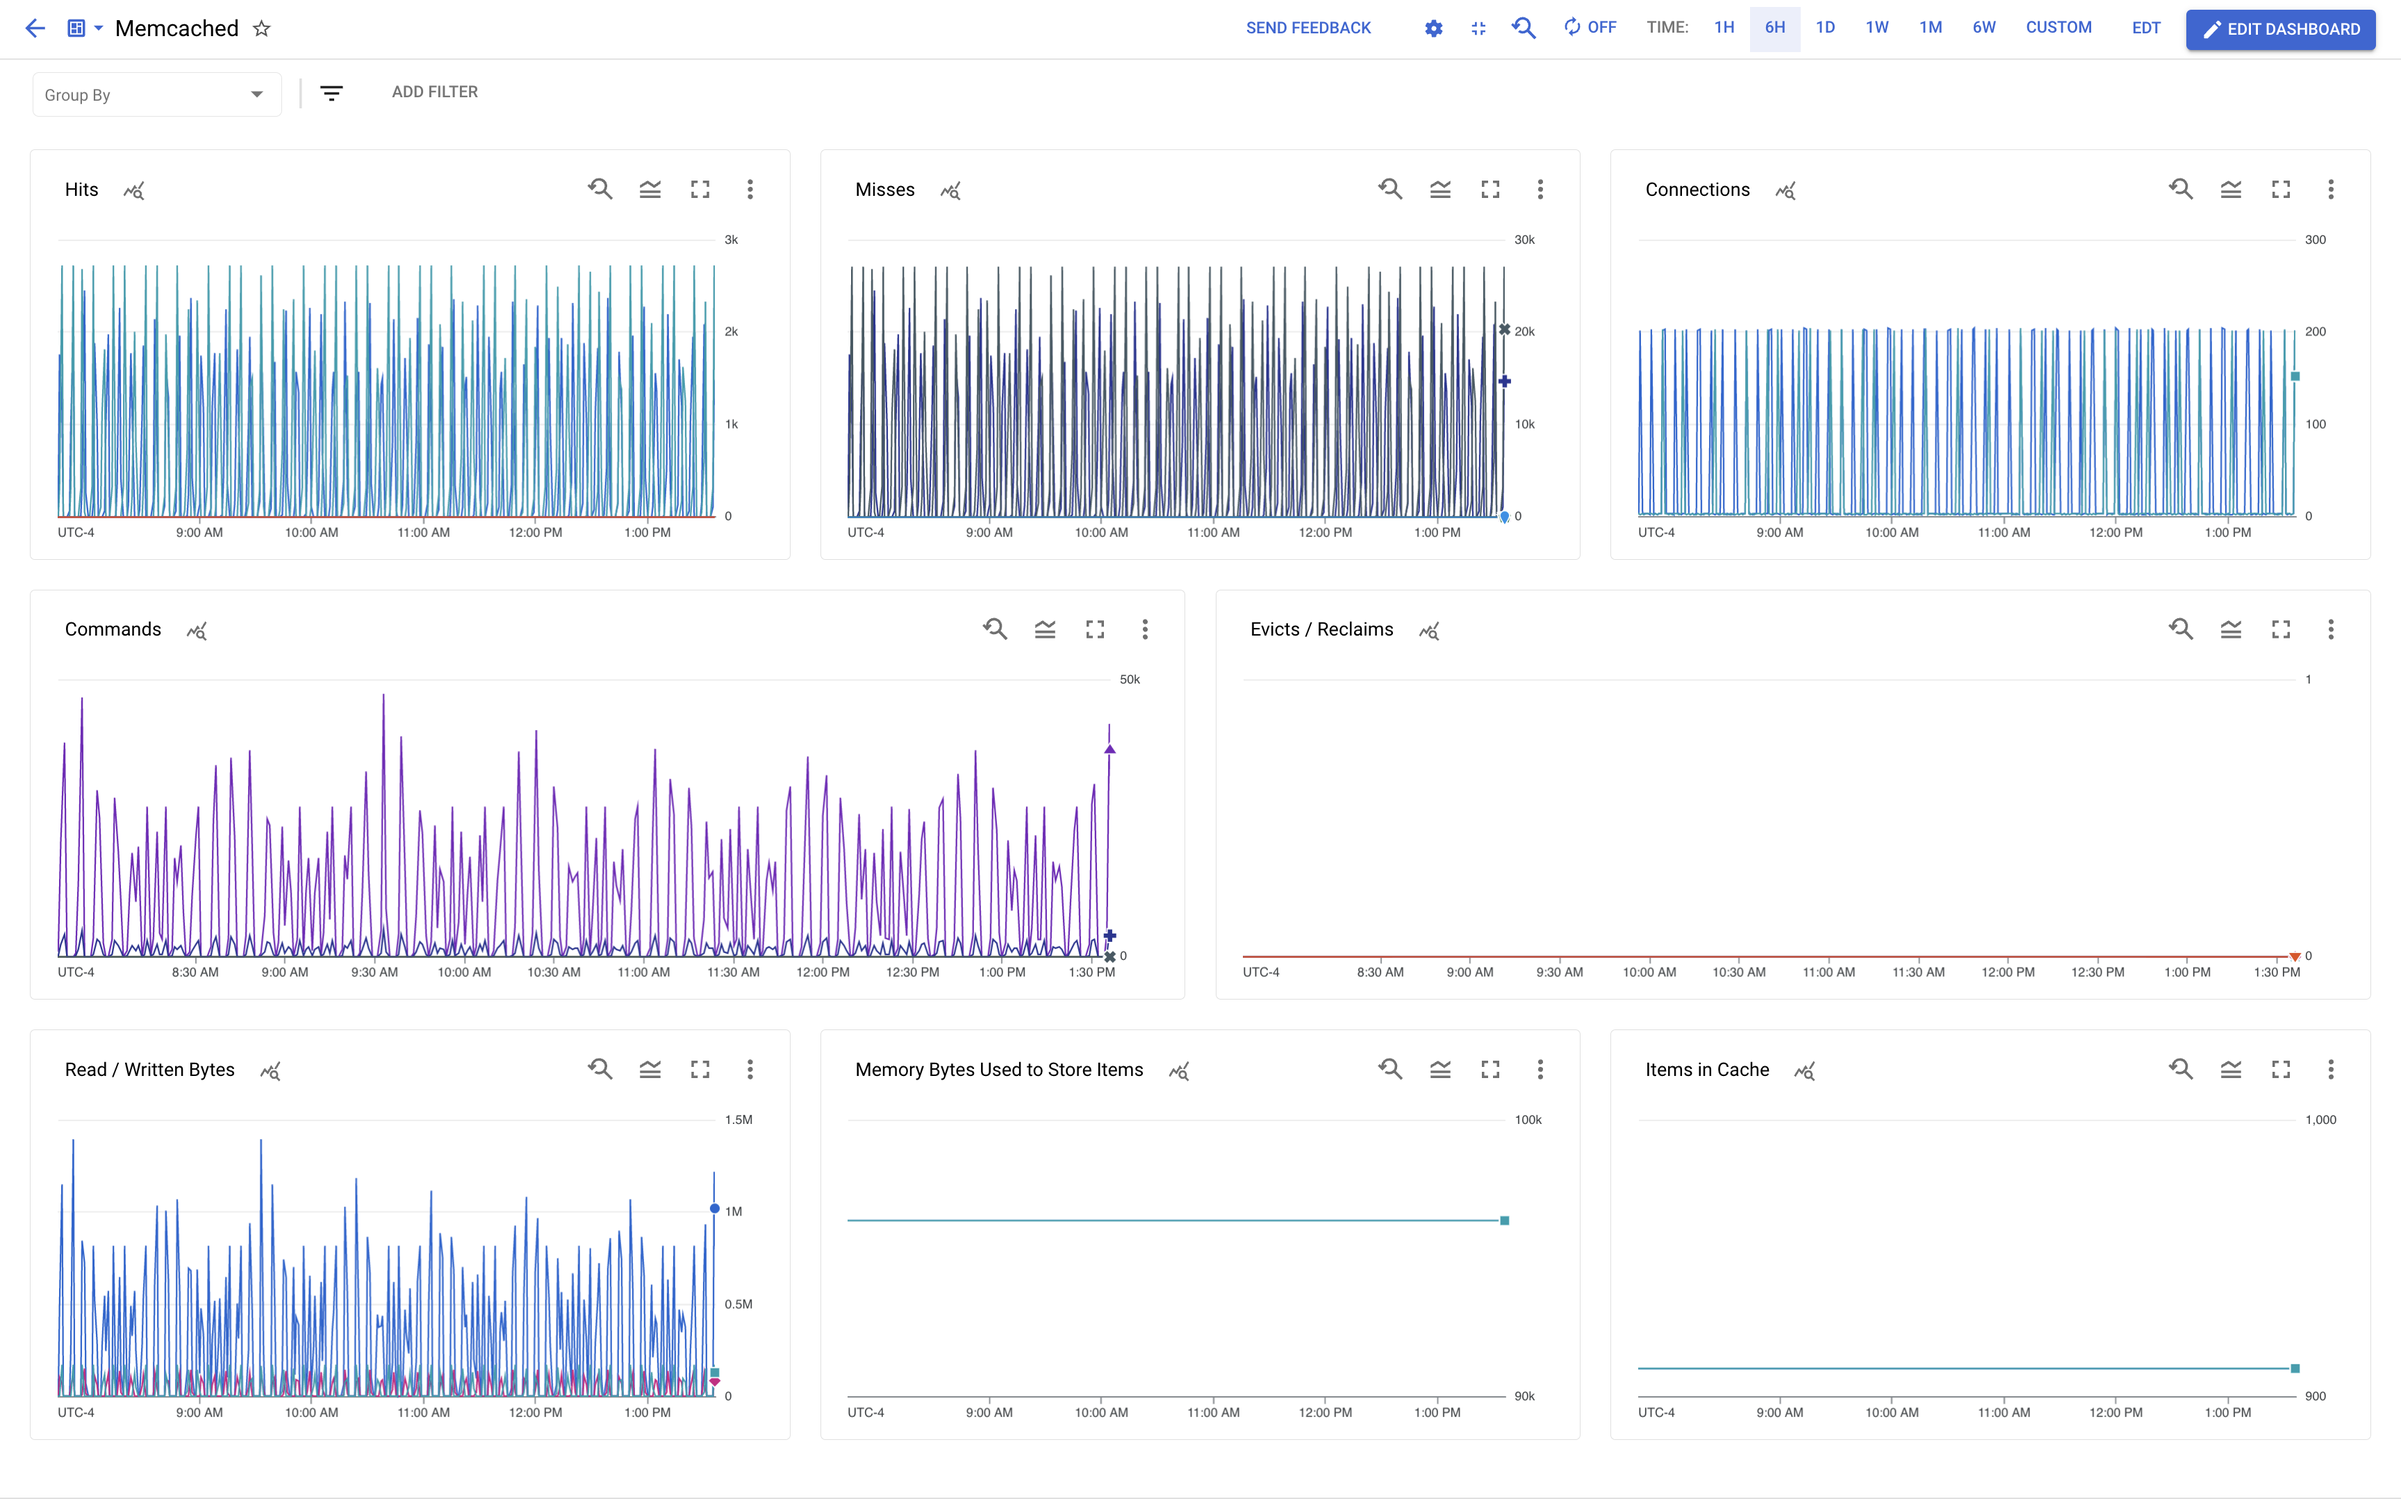
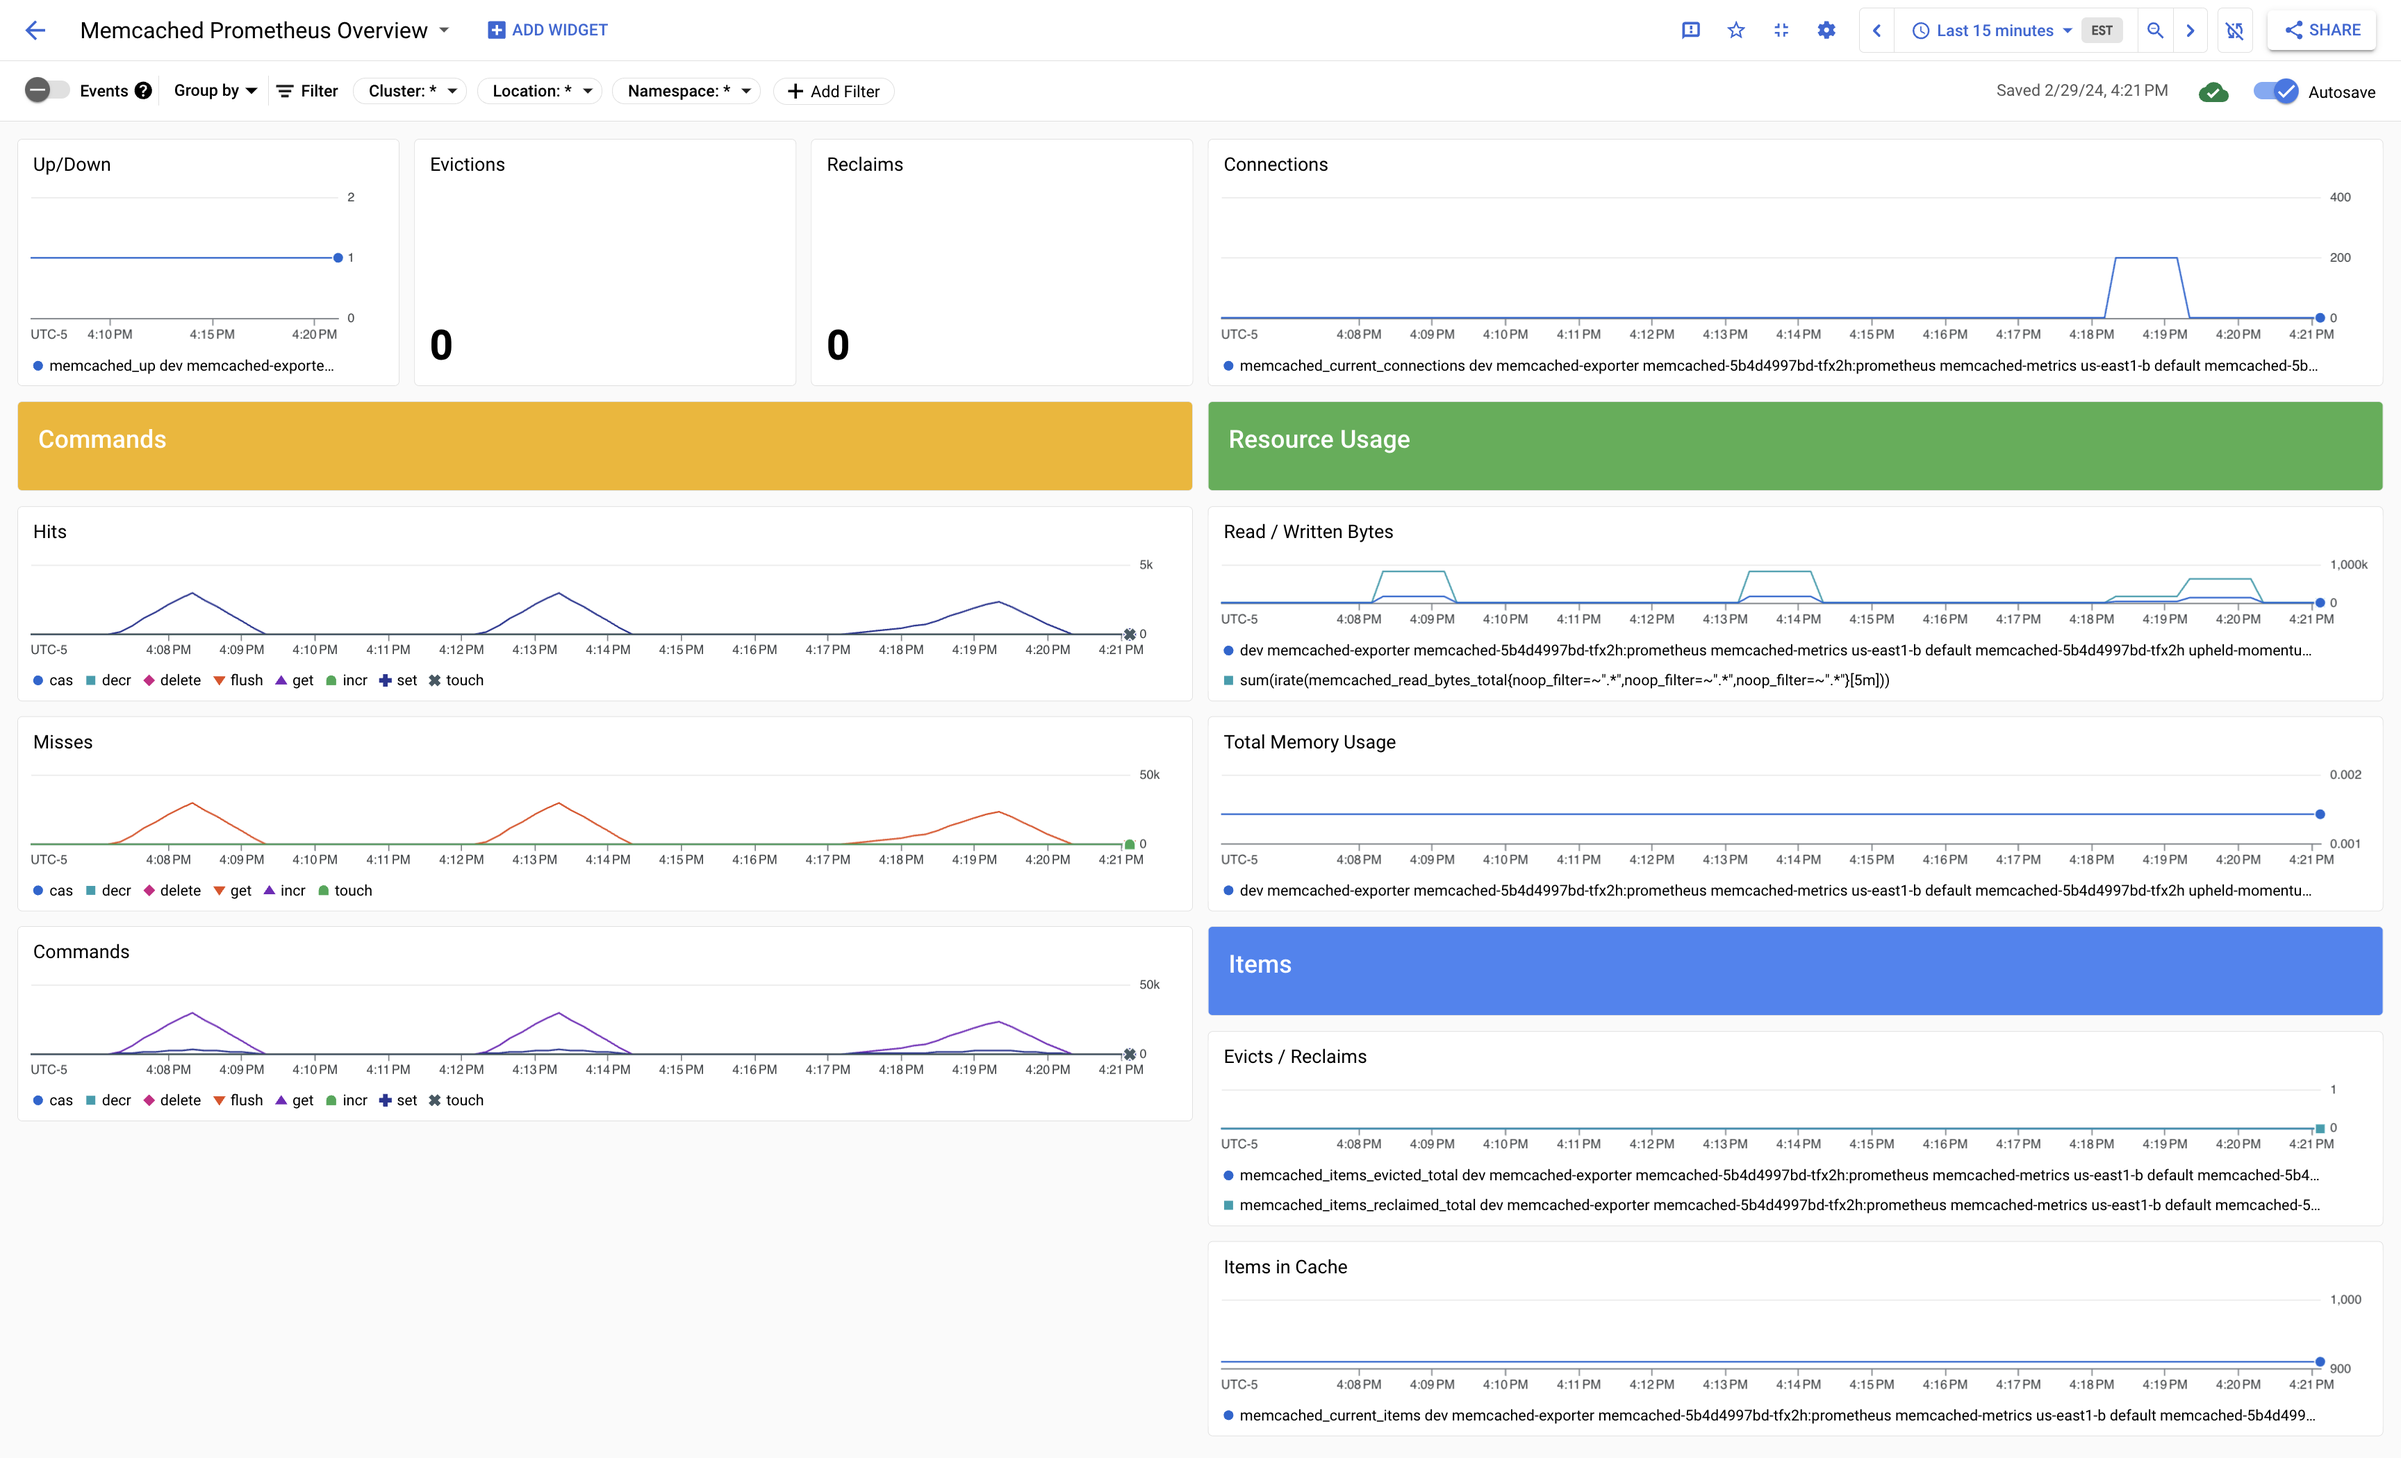
Memcached Prometheus dashboard KPI and layout updates (#723)
* updated readme, metadata, and prometheus metadata to reflect additional metric

* updated dashboard with new layout and kpi metric

* updated screenshot

* removed sum from read bytes total query

* fixed dashboard displayName

diff --git a/dashboards/memcached/README.md b/dashboards/memcached/README.md
@@ -12,4 +12,4 @@
 |Memcached Prometheus Overview|
 |:------------------|
 |Filename: [memcached-prometheus.json](memcached-prometheus.json)|
-|This dashboard is based on prometheus metrics exposed by an [exporter](https://github.com/prometheus/memcached_exporter). This dashboard has charts displaying: `Hits`, `Misses`, `Connections`, `Commands`, `Evicts/Reclaims`, `Read/Written Bytes`, `Memory Bytes Used to Store Items`, and `Items in Cache`|
+|This dashboard is based on prometheus metrics exposed by an [exporter](https://github.com/prometheus/memcached_exporter). This dashboard has charts displaying: `Up/Down`, `Hits`, `Misses`, `Connections`, `Commands`, `Evicts/Reclaims`, `Read/Written Bytes`, `Memory Bytes Used to Store Items`, and `Items in Cache`|
